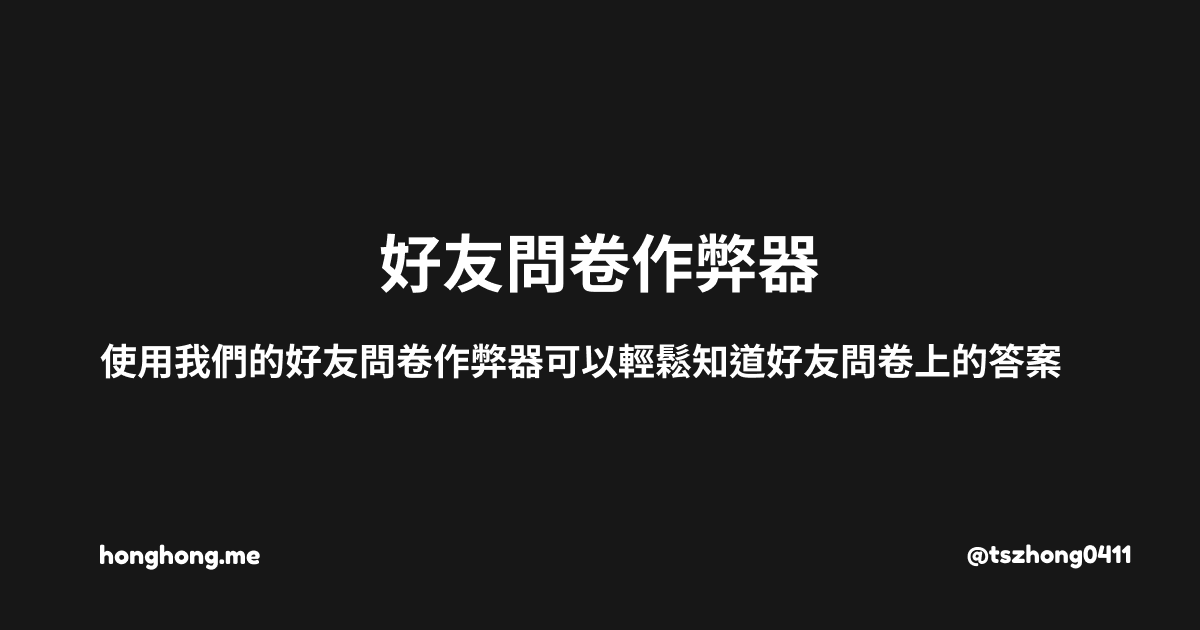
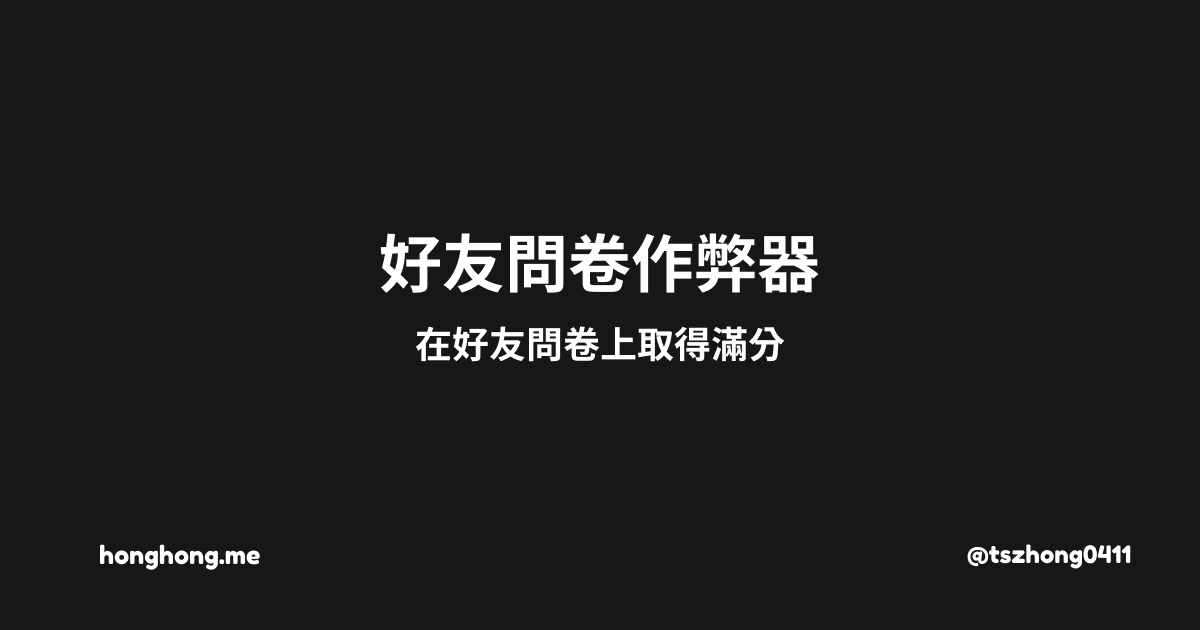
feat: changed og image and description

Changed region(s): [[0.0617, 0.5127, 0.8942, 0.6032]]

diff --git a/pages/index.tsx b/pages/index.tsx
@@ -129,16 +129,14 @@ export default function Home() {
     <Container>
       <div>
         <h1 className="text-3xl font-bold text-center">好友問卷作弊器</h1>
-        <p className="my-6 text-lg font-medium text-center">
-          使用我們的好友問卷作弊器可以輕鬆知道好友問卷上的答案
-        </p>
+        <p className="my-6 text-lg font-medium text-center">在好友問卷上取得滿分</p>
         <form onSubmit={(e) => submitHandler(e)}>
           {' '}
           <div className="my-10 gap-x-4 sm:flex">
             <input
               type="url"
               required
-              placeholder="網址: https://example.com"
+              placeholder="貼上你的網址 ..."
               ref={urlRef}
               className="solid border-[rgb(108, 119, 147)] focus:border-brand w-full rounded-md border-2 shadow-md outline-none duration-300 text-typeface-primary dark:text-typeface-primary-dark bg-body-secondary dark:bg-body-secondary-dark"
             />
